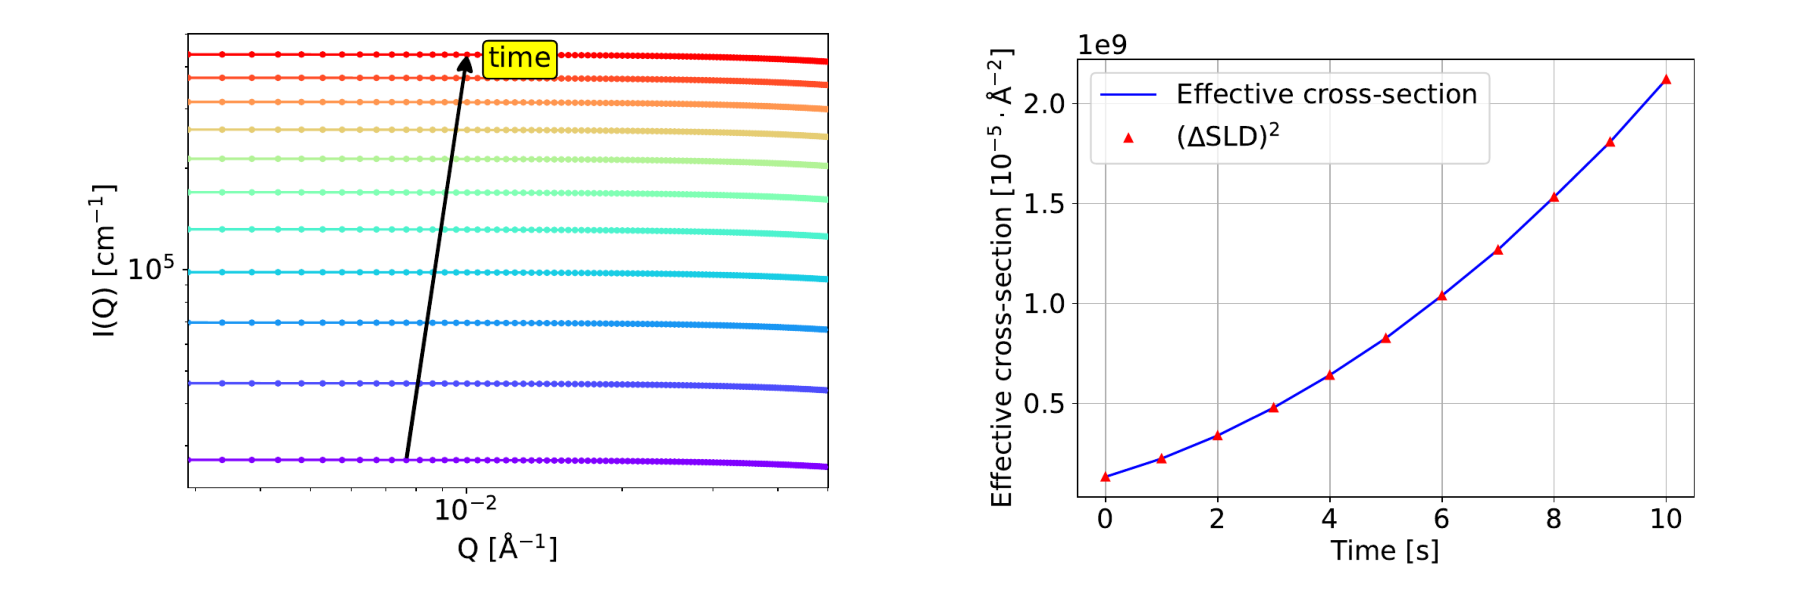
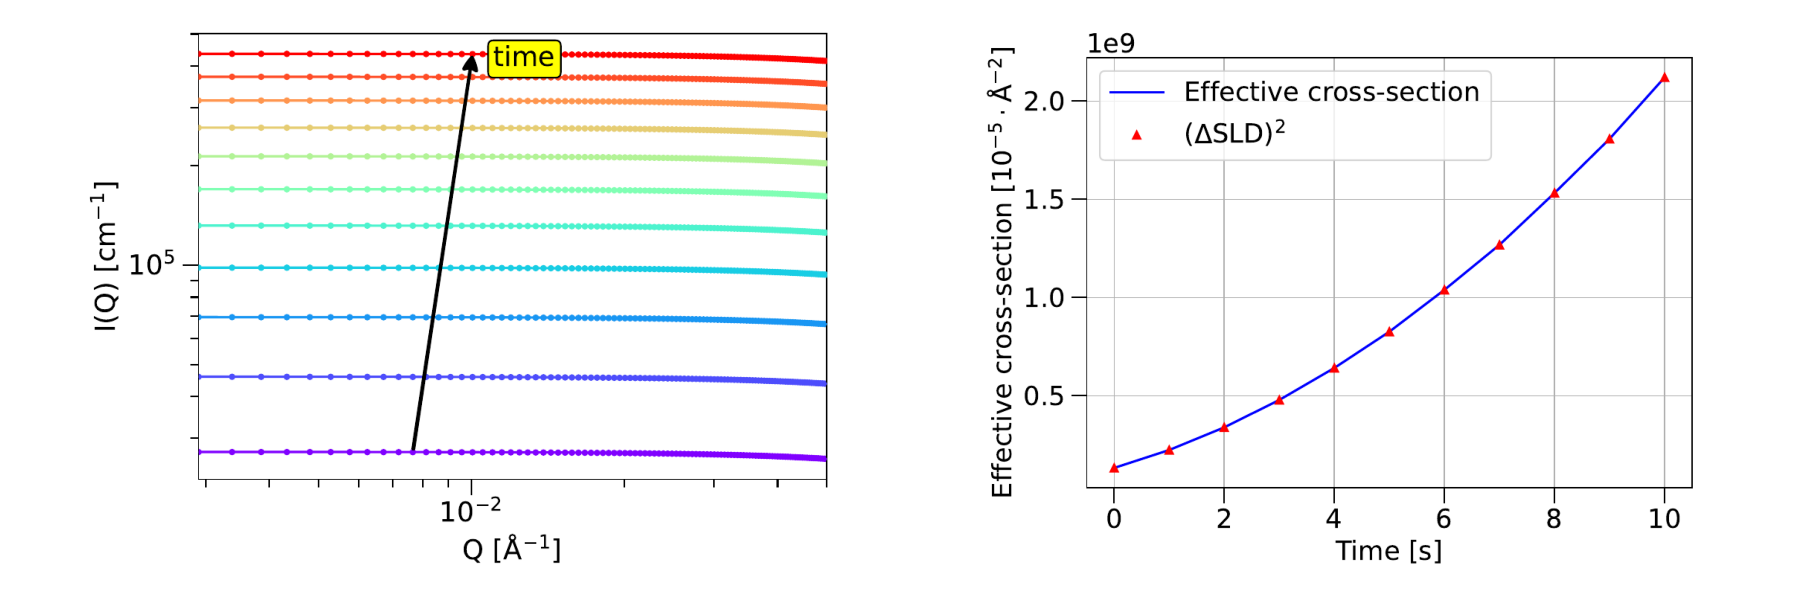
changed fig2 axes ticks

diff --git a/models/sld_grow/sld_grow_plot_joss.py b/models/sld_grow/sld_grow_plot_joss.py
@@ -284,6 +284,8 @@ ax_scatt_all.set_xlabel(r'Q [$\mathrm{\AA}^{-1}$]', fontsize=17)
 ax_scatt_all.set_ylabel(r'I(Q) [$\mathrm{cm}^{-1}$]', fontsize=17)
 ## tick size
 ax_scatt_all.tick_params(axis='both', labelsize=17)
+ax_scatt_all.tick_params(axis='both', which='major', length=10, width=1)
+ax_scatt_all.tick_params(axis='both', which='minor', length=5, width=1)
 ## SANS upper boundary Q=1 \AA^-1
 ax_scatt_all.set_xlim([Q_range[0], Q_range[1]])
 # ax_scatt_all.set_ylim(bottom=1e4 )
@@ -343,6 +345,8 @@ ax.set_xlabel('Time [s]', fontsize=17)
 ax.set_ylabel(r'Effective cross-section [$10^{-5} \cdot \mathrm{\AA}^{-2}$]', fontsize=17)
 ## ticks
 ax.tick_params(axis='both', labelsize=17)
+ax.tick_params(axis='both', which='major', length=10, width=1)
+ax.tick_params(axis='both', which='minor', length=5, width=1)
 ## offset text (1e9) on top of y axis
 ax.yaxis.get_offset_text().set_fontsize(17)
 ## limits
